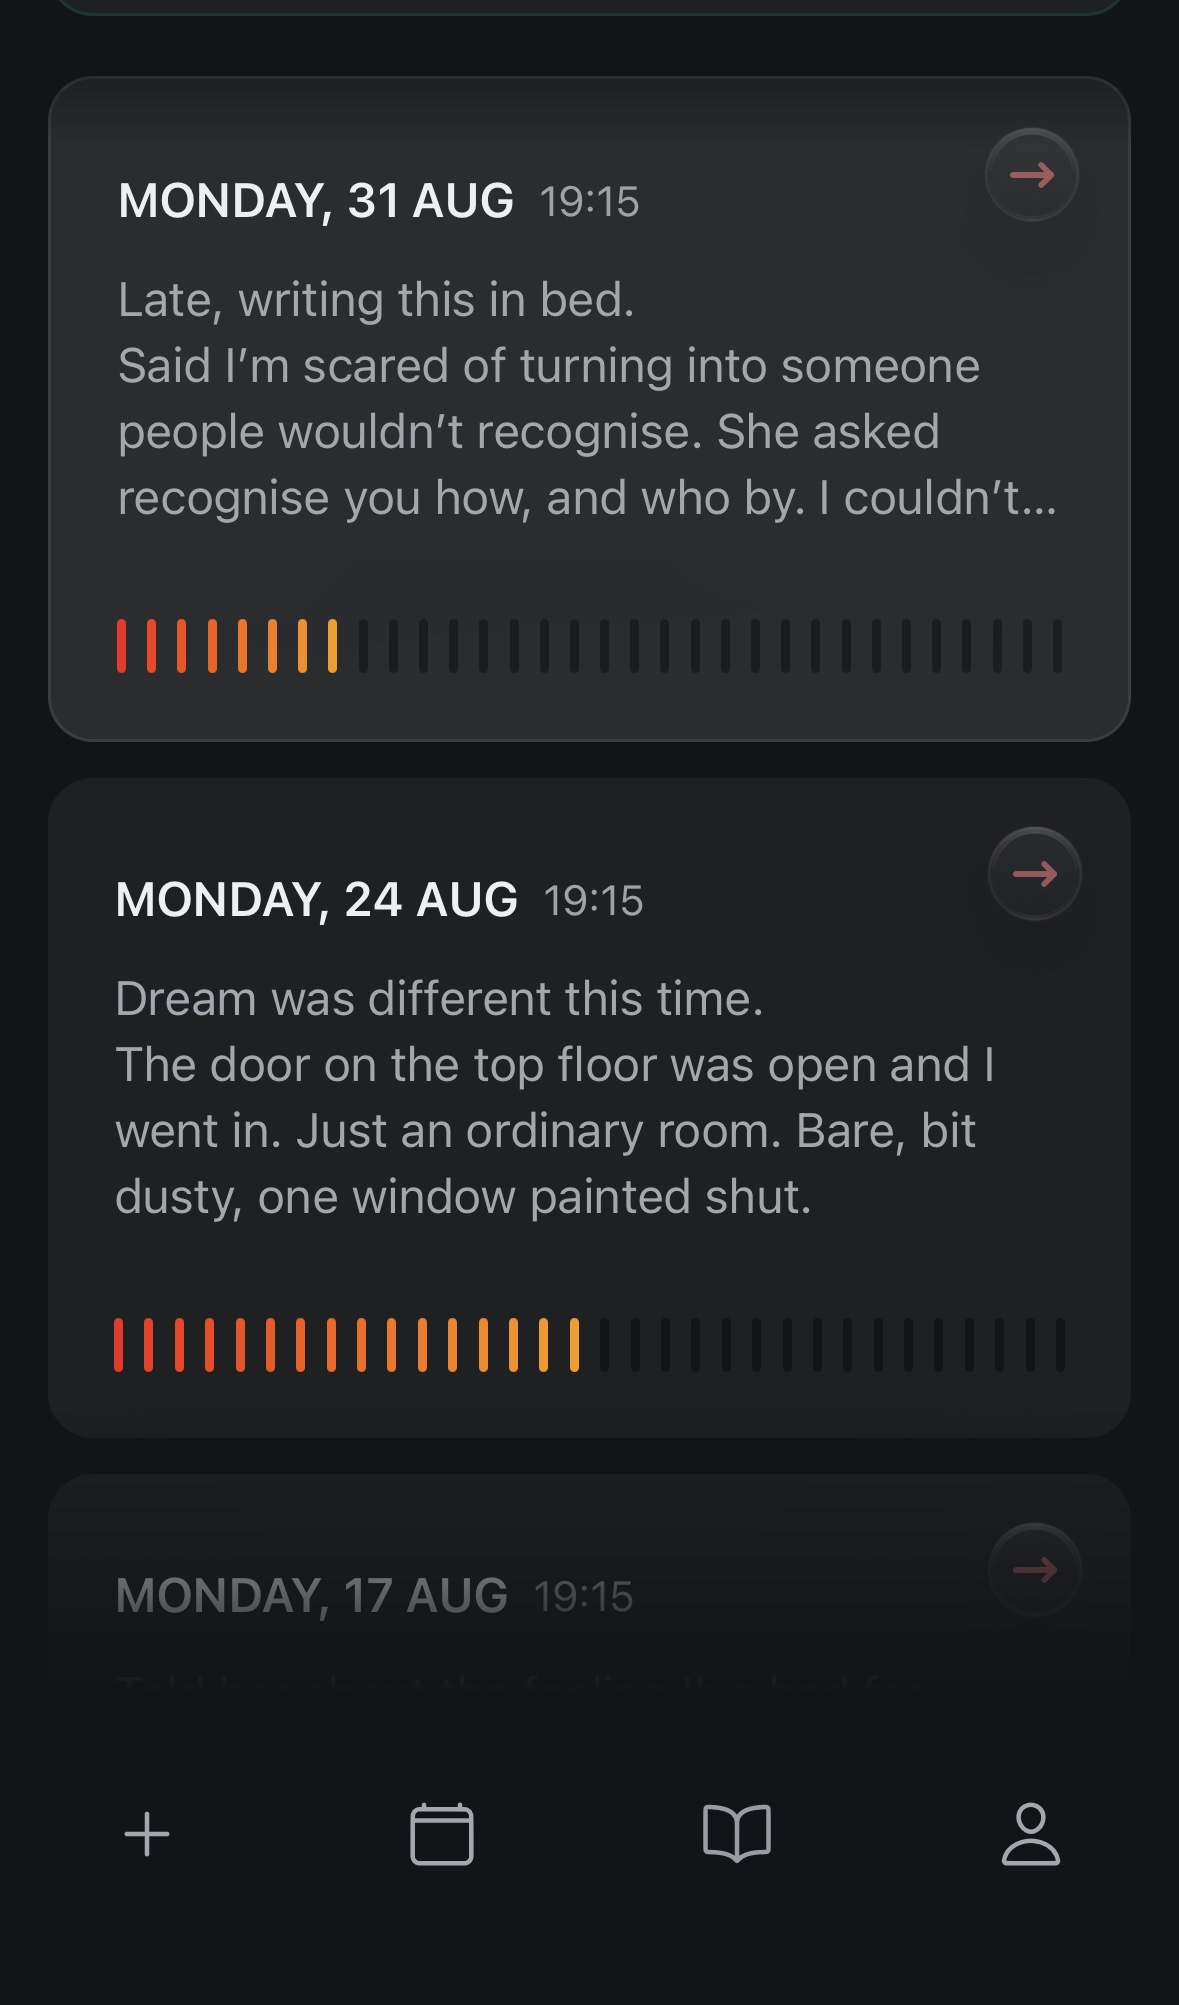
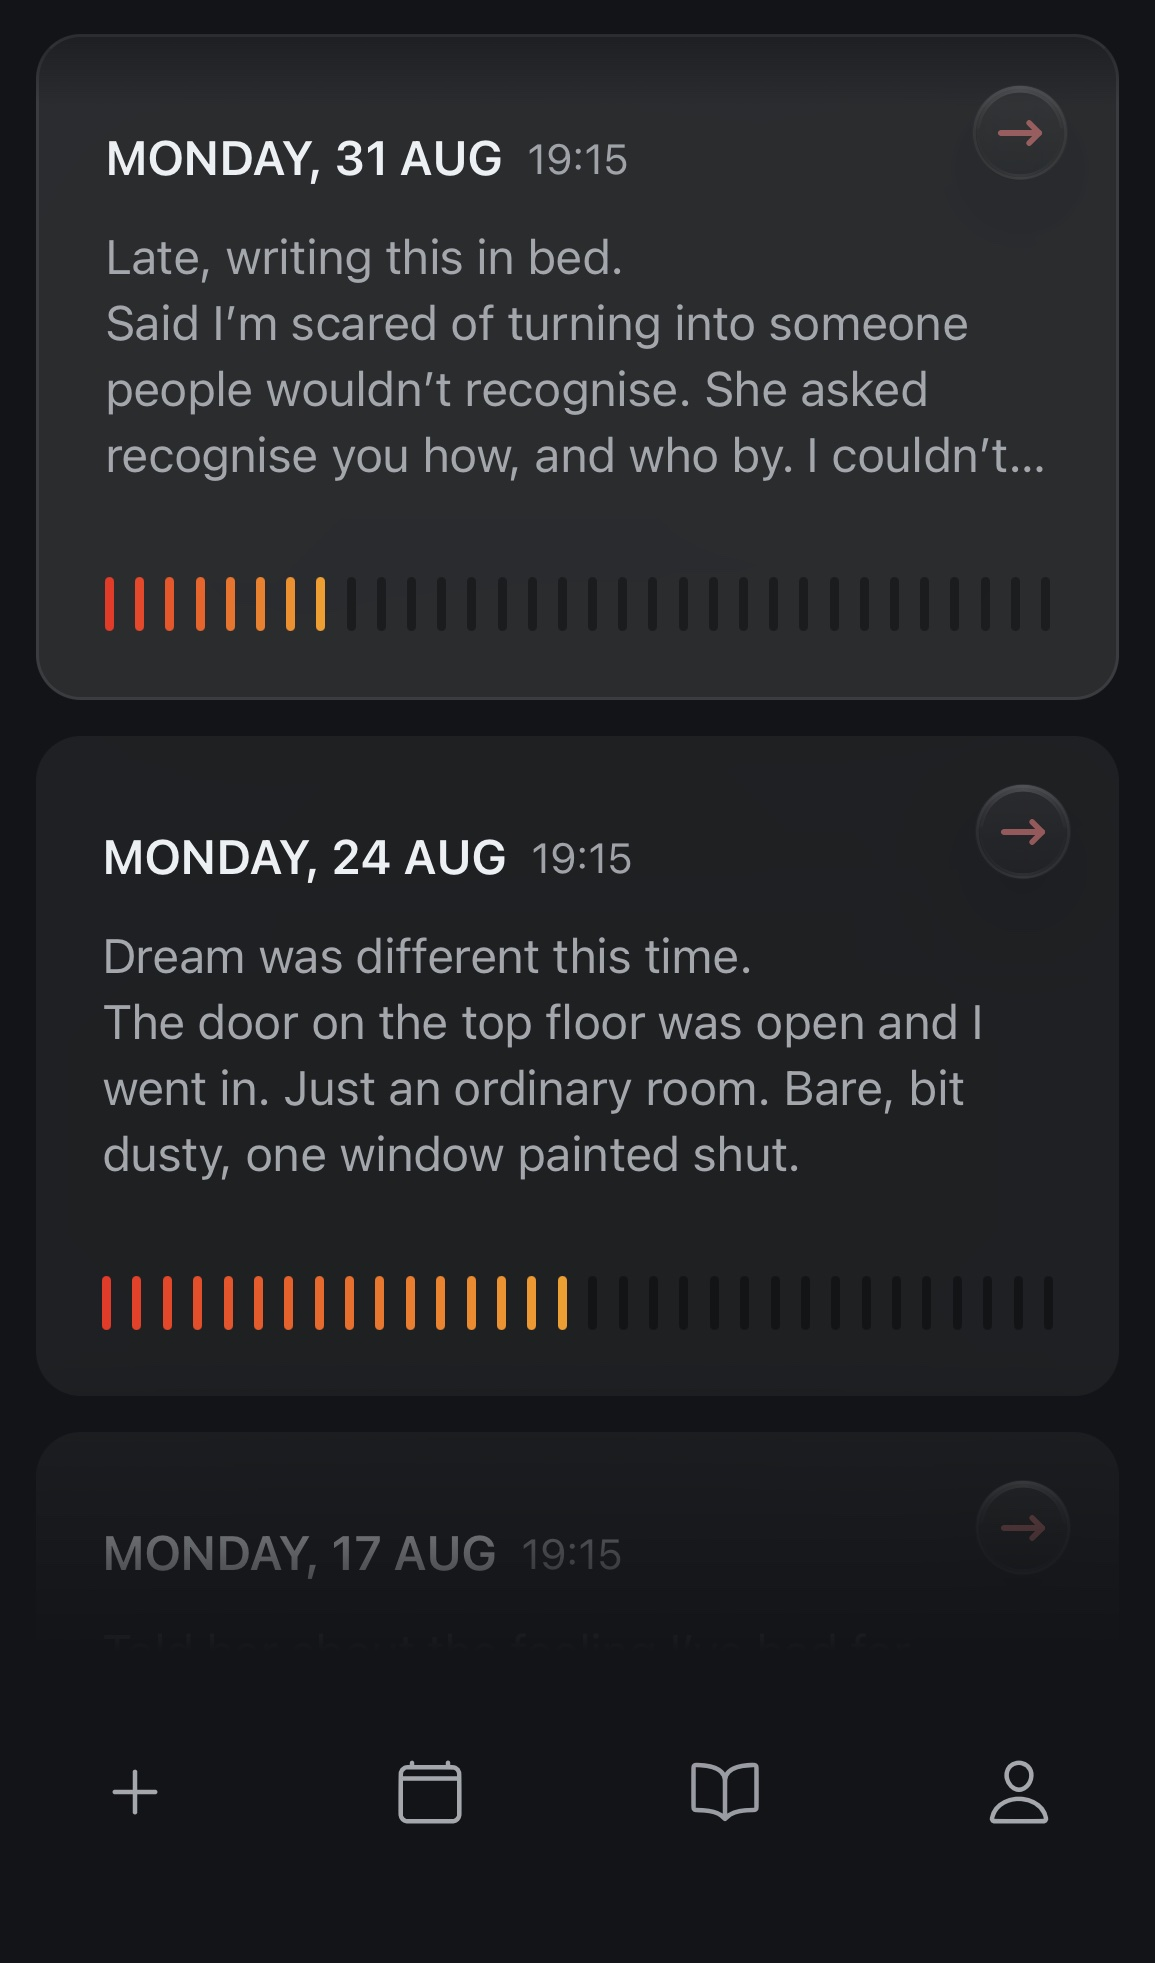
fix(theme): flat night ground, green cheatsheet, round marks
Second look on the device.

The night ground is flat. GlassMorphismWithCircle draws no glass and no
circle at night: the reference's panels are flat charcoal that get their
depth from the shadows of the things on them, and a blurred dark tint over
the ground only greyed it while the gradient behind it read as a smear.
Onboarding, settings, the auth screens and the new-note screen now sit
straight on the ground. The review-moments page drops its ruled paper and
glass for a plain black panel at night.

The cheatsheet stays green. The five-question sheet, the template preview
and the cheatsheet modal keep their green paper and navy ink in both
appearances; only the note editor is printed on dark paper.

The chosen disc on a question and on a plan card draws round again: the
native gradient view does not clip to its parent's rounded corners, so
the disc had rendered square, and the radius now sits on the gradient
itself.

The dark notes preview is recropped from the first card's top edge. It
had started a little above it, so the ground showed through the frame's
rounded corners as a second, misaligned border.

diff --git a/src/components/notes/TemplateHelpModal.tsx b/src/components/notes/TemplateHelpModal.tsx
@@ -5,8 +5,7 @@ import { useSafeAreaInsets } from 'react-native-safe-area-context';
 import { Feather } from '@expo/vector-icons';
 import AppText from '../ui/AppText';
 import Spacer, { SpacerVariant } from '../ui/Spacer';
-import type { Theme } from 'designs/designs-themes';
-import { useTheme, useThemedStyles } from '../../context/theme';
+import { useTheme } from '../../context/theme';
 import {
     postTherapyQuestions,
     postTherapyTemplateIntro,
@@ -18,10 +17,13 @@ type TemplateHelpModalProps = {
     onClose: () => void;
 };
 
-// The paper, and a dark-grained copy of it for the night; the ink is
-// theme.paper, navy by day and a light grey on the dark.
-const PAPER = require('../../../assets/textures/paper-green.webp') as ImageSourcePropType;
-const PAPER_NIGHT = require('../../../assets/textures/paper-green-dark.jpg') as ImageSourcePropType;
+const CIRCLE_FILL = 'hsla(0, 0%, 0%, 0.06)';
+
+// Very dark blue: near-black in weight, but clearly blue against the paper.
+const INK = 'hsl(219, 52%, 14%)';
+
+// Same ink, eased back so the hints sit under the questions rather than beside them.
+const INK_SOFT = 'hsla(219, 52%, 14%, 0.68)';
 
 // One gutter for the header and the body, so the two columns line up.
 const H_PADDING = 30;
@@ -31,7 +33,6 @@ export function TemplateHelpModal({ visible, onClose }: TemplateHelpModalProps) 
     const { t: tCommon } = useTranslation('common');
     const insets = useSafeAreaInsets();
     const { theme } = useTheme();
-    const styles = useThemedStyles(makeStyles);
 
     return (
         <Modal
@@ -41,7 +42,7 @@ export function TemplateHelpModal({ visible, onClose }: TemplateHelpModalProps) 
         >
             <ImageBackground
                 testID="template-help-modal-root"
-                source={ theme.scheme === 'dark' ? PAPER_NIGHT : PAPER }
+                source={ require('../../../assets/textures/paper-green.webp') as ImageSourcePropType }
                 contentFit="cover"
                 // The paper is the picture; the sheet behind it is the frame,
                 // and only the frame follows the theme.
@@ -58,7 +59,7 @@ export function TemplateHelpModal({ visible, onClose }: TemplateHelpModalProps) 
                         style={ styles.backButton }
                         activeOpacity={ 0.7 }
                     >
-                        <Feather name="arrow-left" size={ 22 } color={ theme.paper.ink } />
+                        <Feather name="arrow-left" size={ 22 } color={ INK } />
                     </TouchableOpacity>
                     <AppText variant="h1" style={ styles.headerWordSans }>
                         { t('cheatsheet.titleSans') }
@@ -93,7 +94,7 @@ export function TemplateHelpModal({ visible, onClose }: TemplateHelpModalProps) 
     );
 }
 
-const makeStyles = (theme: Theme) => StyleSheet.create({
+const styles = StyleSheet.create({
     modalRoot: { flex: 1 },
     scroll: { flex: 1 },
     scrollContent: { paddingHorizontal: H_PADDING, paddingTop: 20, paddingBottom: 32 },
@@ -111,23 +112,23 @@ const makeStyles = (theme: Theme) => StyleSheet.create({
         borderRadius: 22,
         justifyContent: 'center',
         alignItems: 'center',
-        backgroundColor: theme.paper.circle,
+        backgroundColor: CIRCLE_FILL,
     },
     headerWordSans: {
-        color: theme.paper.ink,
+        color: INK,
         fontWeight: '700',
         fontSize: 38,
         lineHeight: 46,
         letterSpacing: -0.5,
     },
     headerWordSerif: {
-        color: theme.paper.ink,
+        color: INK,
         fontFamily: 'InstrumentSerif-Italic',
         fontSize: 40,
         lineHeight: 46,
         fontWeight: '400',
     },
-    intro: { color: theme.paper.ink, fontSize: 18, lineHeight: 26 },
-    questionText: { color: theme.paper.ink, fontSize: 19, lineHeight: 26 },
-    hintText: { color: theme.paper.inkSoft, fontSize: 18, lineHeight: 26, marginTop: 2 },
+    intro: { color: INK, fontSize: 18, lineHeight: 26 },
+    questionText: { color: INK, fontSize: 19, lineHeight: 26 },
+    hintText: { color: INK_SOFT, fontSize: 18, lineHeight: 26, marginTop: 2 },
 });

diff --git a/src/components/onboarding/NoteTemplateSheet.tsx b/src/components/onboarding/NoteTemplateSheet.tsx
@@ -4,8 +4,6 @@ import { ImageBackground } from 'expo-image';
 import type { StyleProp, ViewStyle } from 'react-native';
 import type { ImageSourcePropType } from 'react-native';
 import AppText from '../ui/AppText';
-import type { Theme } from 'designs/designs-themes';
-import { useTheme, useThemedStyles } from '../../context/theme';
 import {
     postTherapyQuestions,
     postTherapyTemplateIntro,
@@ -15,11 +13,10 @@ import {
 import { remainingQuestions } from '../../features/onboarding/onboardingCopy';
 import { useTranslation } from 'react-i18next';
 
-// The cheatsheet's paper and ink (theme.paper), so the preview sheet reads as
-// the same paper the note editor uses rather than a new surface invented for
-// onboarding. A dark-grained copy of the paper for the night.
-const PAPER = require('../../../assets/textures/paper-green.webp') as ImageSourcePropType;
-const PAPER_NIGHT = require('../../../assets/textures/paper-green-dark.jpg') as ImageSourcePropType;
+// The cheatsheet's ink, so the preview sheet reads as the same paper the note
+// editor uses rather than a new surface invented for onboarding.
+const INK = 'hsl(219, 52%, 14%)';
+const INK_SOFT = 'hsla(219, 52%, 14%, 0.68)';
 
 const QUESTIONS_SHOWN = 2;
 
@@ -32,13 +29,11 @@ const QUESTIONS_SHOWN = 2;
  */
 export function NoteTemplateSheet({ style }: { style?: StyleProp<ViewStyle> }) {
     const { t } = useTranslation('notes');
-    const { theme } = useTheme();
-    const styles = useThemedStyles(makeStyles);
     const shown = postTherapyQuestions().slice(0, QUESTIONS_SHOWN);
 
     return (
         <ImageBackground
-            source={ theme.scheme === 'dark' ? PAPER_NIGHT : PAPER }
+            source={ require('../../../assets/textures/paper-green.webp') as ImageSourcePropType }
             contentFit="cover"
             imageStyle={ styles.sheetImage }
             style={ [styles.sheet, style] }
@@ -92,7 +87,7 @@ export function NoteTemplateSheet({ style }: { style?: StyleProp<ViewStyle> }) {
     );
 }
 
-const makeStyles = (theme: Theme) => StyleSheet.create({
+const styles = StyleSheet.create({
     sheet: {
         marginTop: 24,
         paddingHorizontal: 20,
@@ -104,16 +99,16 @@ const makeStyles = (theme: Theme) => StyleSheet.create({
         borderRadius: 18,
     },
     sheetTitle: {
-        color: theme.paper.ink,
+        color: INK,
         fontSize: 19,
         lineHeight: 25,
     },
     sheetSubtitle: {
-        color: theme.paper.inkSoft,
+        color: INK_SOFT,
         marginTop: 2,
     },
     sheetIntro: {
-        color: theme.paper.inkSoft,
+        color: INK_SOFT,
         marginTop: 14,
         fontSize: 16,
         lineHeight: 23,
@@ -127,27 +122,27 @@ const makeStyles = (theme: Theme) => StyleSheet.create({
         gap: 10,
     },
     questionNumber: {
-        color: theme.paper.inkSoft,
+        color: INK_SOFT,
         marginTop: 3,
     },
     questionBody: {
         flex: 1,
     },
     questionText: {
-        color: theme.paper.ink,
+        color: INK,
         fontSize: 17,
         lineHeight: 24,
     },
     writingLine: {
         height: 1,
         marginTop: 14,
-        backgroundColor: theme.paper.rule,
+        backgroundColor: 'hsla(219, 52%, 14%, 0.18)',
     },
     writingLineShort: {
         width: '65%',
     },
     more: {
-        color: theme.paper.inkSoft,
+        color: INK_SOFT,
         marginTop: 18,
     },
 });

diff --git a/src/components/notes/NoteSheetBackdrop.tsx b/src/components/notes/NoteSheetBackdrop.tsx
@@ -4,8 +4,6 @@ import { ImageBackground } from 'expo-image';
 import { useTranslation } from 'react-i18next';
 
 import AppText from '../ui/AppText';
-import type { Theme } from 'designs/designs-themes';
-import { useTheme, useThemedStyles } from '../../context/theme';
 import {
     postTherapyQuestions,
     postTherapyTemplateIntro,
@@ -26,10 +24,11 @@ import {
  * draws the sheet now, so the sheet always says what the resource says.
  */
 
-// The paper, and a dark-grained copy of it for the night. The ink is
-// theme.paper: navy on the green by day, a light grey on the dark.
+// Very dark blue: near-black in weight, but clearly blue against the paper.
+// Same values as TemplateHelpModal, which draws the same sheet.
+const INK = 'hsl(219, 52%, 14%)';
+const INK_SOFT = 'hsla(219, 52%, 14%, 0.68)';
 const PAPER = require('../../../assets/textures/paper-green.webp') as ImageSourcePropType;
-const PAPER_NIGHT = require('../../../assets/textures/paper-green-dark.jpg') as ImageSourcePropType;
 
 type Props = {
     accessibilityLabel: string;
@@ -43,12 +42,10 @@ type Props = {
 
 export function NoteSheetBackdrop({ accessibilityLabel, style }: Props) {
     const { t } = useTranslation('notes');
-    const { theme } = useTheme();
-    const styles = useThemedStyles(makeStyles);
 
     return (
         <ImageBackground
-            source={ theme.scheme === 'dark' ? PAPER_NIGHT : PAPER }
+            source={ PAPER }
             contentFit="cover"
             style={ [styles.sheet, style] }
             // One label for the whole sheet, matching the capture it stands in
@@ -86,7 +83,7 @@ export function NoteSheetBackdrop({ accessibilityLabel, style }: Props) {
     );
 }
 
-const makeStyles = (theme: Theme) => StyleSheet.create({
+const styles = StyleSheet.create({
     sheet: {
         overflow: 'hidden',
     },
@@ -99,21 +96,21 @@ const makeStyles = (theme: Theme) => StyleSheet.create({
         gap: 18,
     },
     headingSans: {
-        color: theme.paper.ink,
+        color: INK,
         fontWeight: '700',
         fontSize: 34,
         lineHeight: 40,
         letterSpacing: -0.5,
     },
     headingSerif: {
-        color: theme.paper.ink,
+        color: INK,
         fontFamily: 'InstrumentSerif-Italic',
         fontSize: 36,
         lineHeight: 40,
         fontWeight: '400',
     },
-    intro: { color: theme.paper.ink, fontSize: 16, lineHeight: 23 },
+    intro: { color: INK, fontSize: 16, lineHeight: 23 },
     questionList: { gap: 18 },
-    question: { color: theme.paper.ink, fontSize: 17, lineHeight: 23 },
-    hint: { color: theme.paper.inkSoft, fontSize: 16, lineHeight: 23, marginTop: 2 },
+    question: { color: INK, fontSize: 17, lineHeight: 23 },
+    hint: { color: INK_SOFT, fontSize: 16, lineHeight: 23, marginTop: 2 },
 });

diff --git a/src/components/ui/GlassMorphismWithCircle.tsx b/src/components/ui/GlassMorphismWithCircle.tsx
@@ -2,6 +2,7 @@ import React from 'react';
 import { View, StyleSheet, StyleProp, ViewStyle } from 'react-native';
 import LinearGradientCircle, { CirclePosition } from './LinearGradientCircle';
 import GlassMorphism from './GlassMorphism';
+import { useTheme } from '../../context/theme';
 
 type Props = {
     children?: React.ReactNode;
@@ -13,7 +14,27 @@ type Props = {
     circlePosition?: CirclePosition;
 };
 
+/**
+ * The pale screens' ground: a sheet of glass over the app's colour, with a
+ * gradient circle blurred behind it where a screen asks for one.
+ *
+ * At night there is no glass. The reference's panels are flat charcoal that
+ * gets its depth from the shadows of the things on it, and a blurred dark
+ * tint over the ground only greyed it; a gradient behind it read as a smear.
+ * So the night ground is the theme's ground colour, flat, with the children
+ * laid straight on it.
+ */
 export const GlassMorphismWithCircle = ({ children, style, circlePosition, circleStyle, panelRadius }: Props) => {
+    const { theme } = useTheme();
+
+    if (theme.scheme === 'dark') {
+        return (
+            <View pointerEvents="box-none" style={ [styles.container, { backgroundColor: theme.ground.base }, style] }>
+                { children }
+            </View>
+        );
+    }
+
     return (
         <View pointerEvents="box-none" style={ styles.container }>
             { circlePosition !== undefined && (

diff --git a/src/components/onboarding/SelectableCard.tsx b/src/components/onboarding/SelectableCard.tsx
@@ -86,7 +86,7 @@ export function SelectableCard({ label, selected, onPress, height, onLayout }: P
                  gradient so the day's flat peach and the night's sweep take
                  the same path. */ }
             <View style={ [styles.radio, selected && styles.radioSelected] }>
-                { selected && <LinearGradient colors={ theme.chosen.mark } style={ StyleSheet.absoluteFill } /> }
+                { selected && <LinearGradient colors={ theme.chosen.mark } style={ [StyleSheet.absoluteFill, styles.markFill] } /> }
             </View>
 
             <AppText
@@ -136,6 +136,11 @@ const makeStyles = (theme: Theme) => StyleSheet.create({
     // at this size, and outlining the dot to separate them only made a target.
     radioSelected: {
         borderColor: 'transparent',
+    },
+    // Rounded on the gradient itself: the native gradient view does not clip
+    // to its parent's corners, so without this the disc drew as a square.
+    markFill: {
+        borderRadius: 11,
     },
     // Sized against the ring's inner edge rather than its outer one: the ring
     // keeps its 22pt, and the dot grows into it until only a hairline of the

diff --git a/app/interval-science.tsx b/app/interval-science.tsx
@@ -82,9 +82,18 @@ export default function IntervalScienceScreen() {
             : tScience('intervals.emptyNoSessions');
 
     return (
-        <SafeAreaView style={ [styles.container, { backgroundColor: theme.surface.sheet }] } edges={ ['top', 'left', 'right'] }>
-            <ChartBackground />
-            <GlassMorphismWithSquare squarePosition={ SquarePosition.BOTTOM_LEFT } />
+        <SafeAreaView
+            // By day the page sits on ruled paper under a sheet of glass; at
+            // night it is a plain black panel, and the cards carry the depth.
+            style={ [styles.container, { backgroundColor: theme.scheme === 'dark' ? theme.ground.base : theme.surface.sheet }] }
+            edges={ ['top', 'left', 'right'] }
+        >
+            { theme.scheme === 'light' && (
+                <>
+                    <ChartBackground />
+                    <GlassMorphismWithSquare squarePosition={ SquarePosition.BOTTOM_LEFT } />
+                </>
+            ) }
             <View style={ styles.pageHeader }>
                 <GlassCircleButton
                     accessibilityLabel={ t('action.back') }

diff --git a/src/components/onboarding/SubscriptionPlanCard.tsx b/src/components/onboarding/SubscriptionPlanCard.tsx
@@ -67,7 +67,7 @@ export function SubscriptionPlanCard({
                      the row: one mark saying chosen, on the control that does
                      the choosing. */ }
                 <View style={ [styles.radio, selected && styles.radioSelected] }>
-                    { selected && <LinearGradient colors={ theme.chosen.mark } style={ StyleSheet.absoluteFill } /> }
+                    { selected && <LinearGradient colors={ theme.chosen.mark } style={ [StyleSheet.absoluteFill, styles.markFill] } /> }
                     { selected && <Feather name="check" size={ 13 } color={ theme.chosen.check } /> }
                 </View>
 
@@ -209,6 +209,11 @@ const makeStyles = (theme: Theme) => StyleSheet.create({
     // The questions' own radio, filled rather than ringed.
     radioSelected: {
         borderColor: 'transparent',
+    },
+    // Rounded on the gradient itself: the native gradient view does not clip
+    // to its parent's corners, so without this the disc drew as a square.
+    markFill: {
+        borderRadius: 11,
     },
     title: {
         fontSize: 18,
